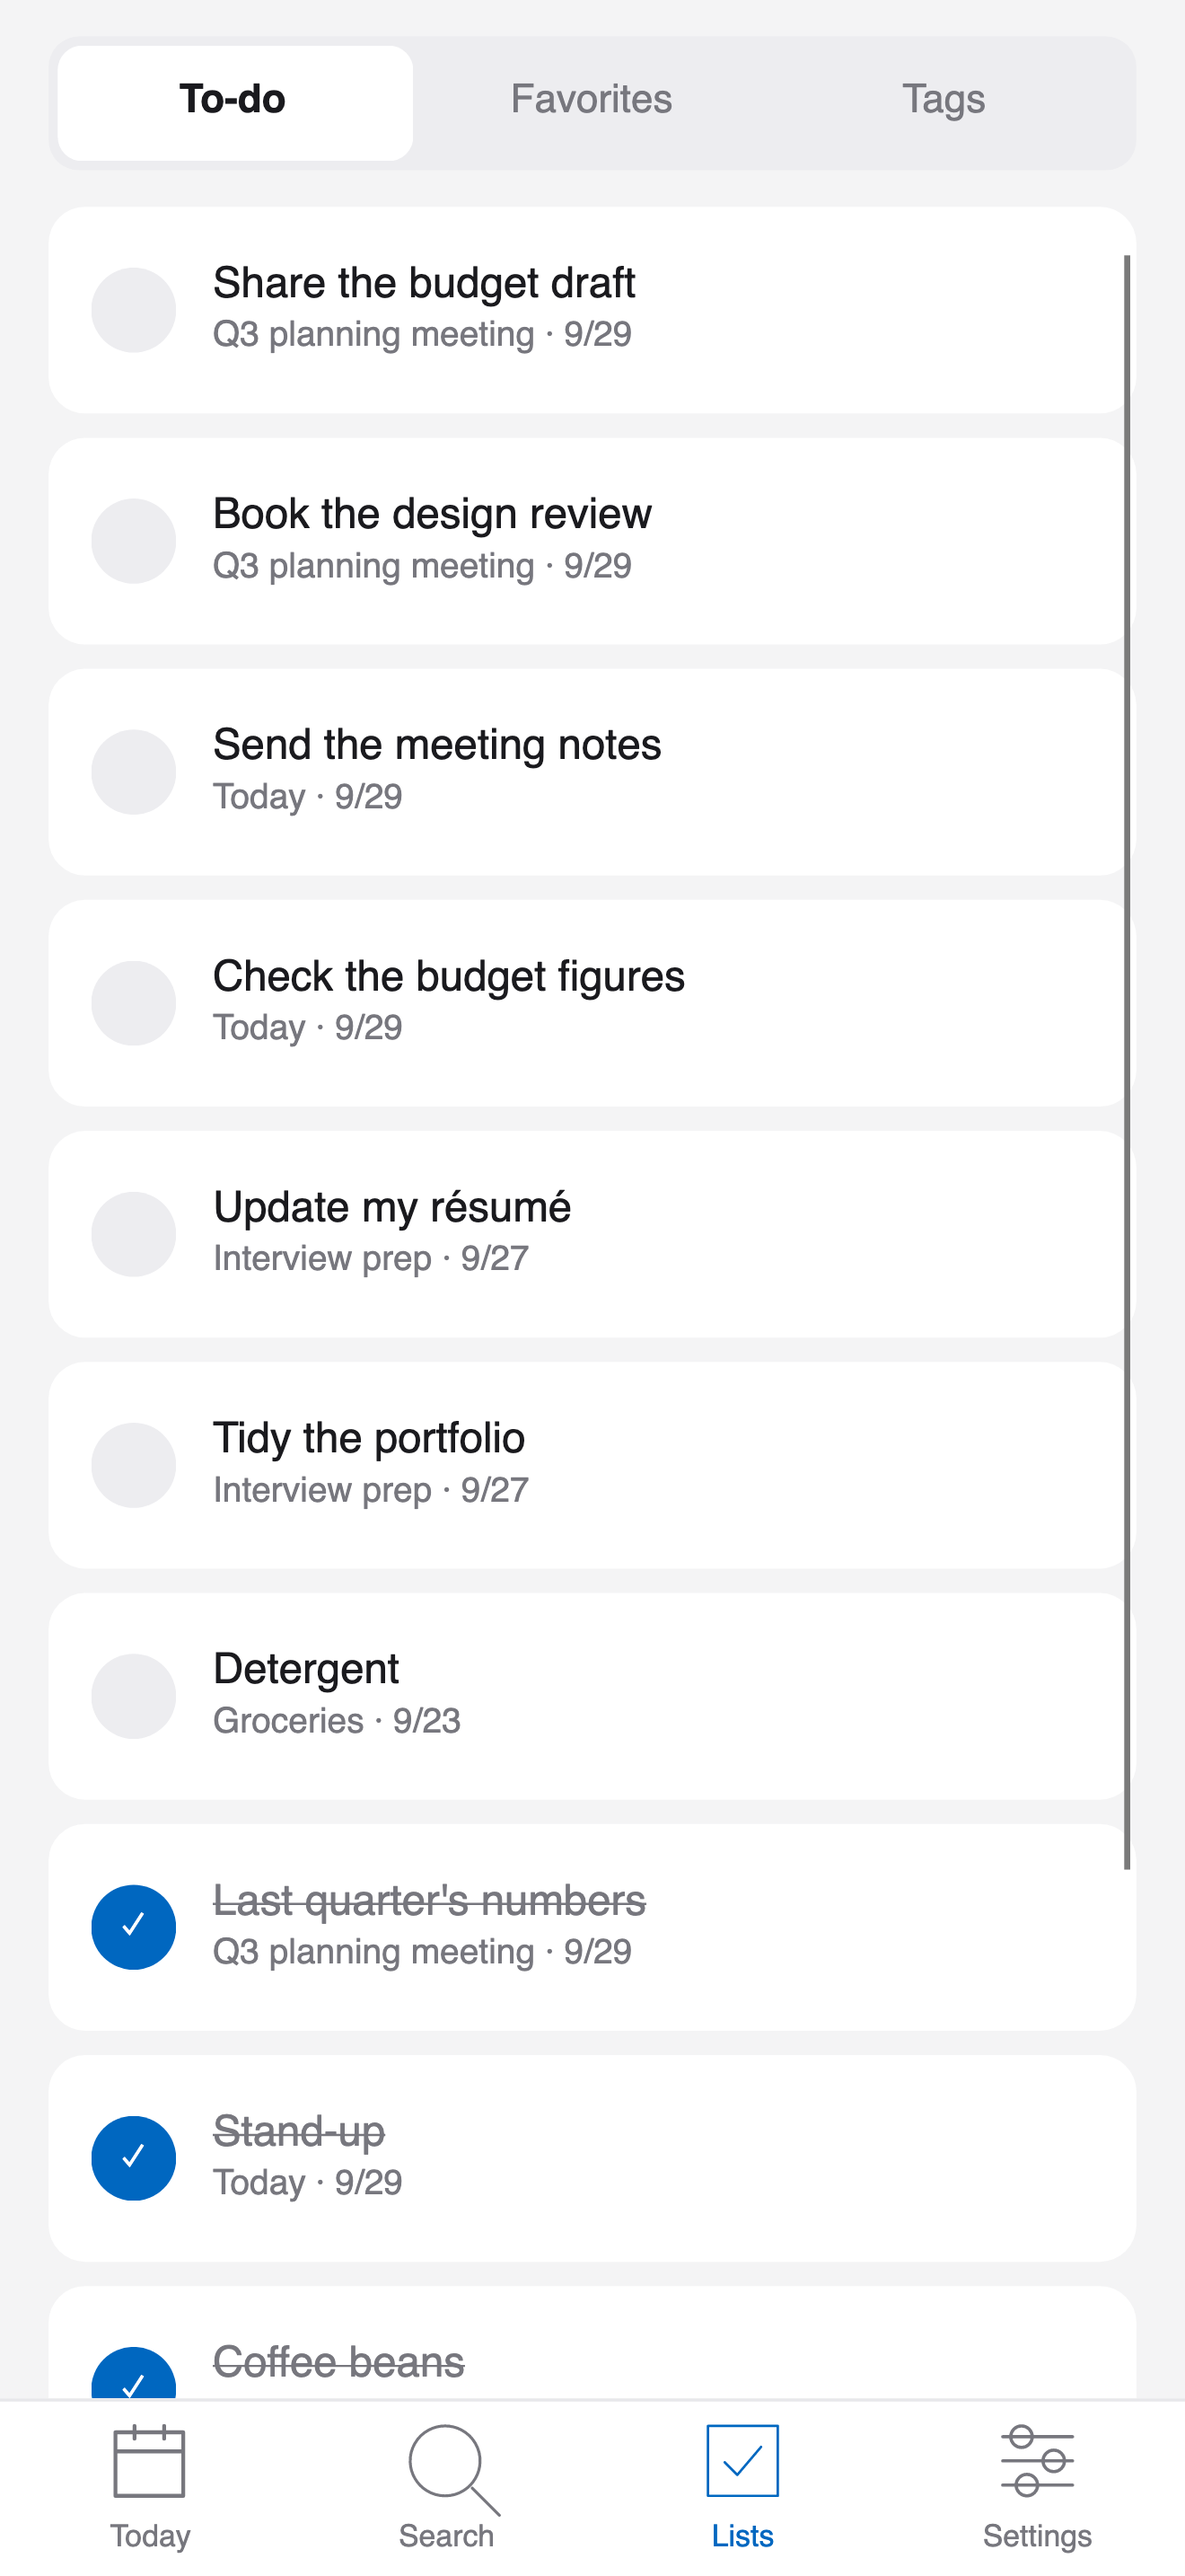
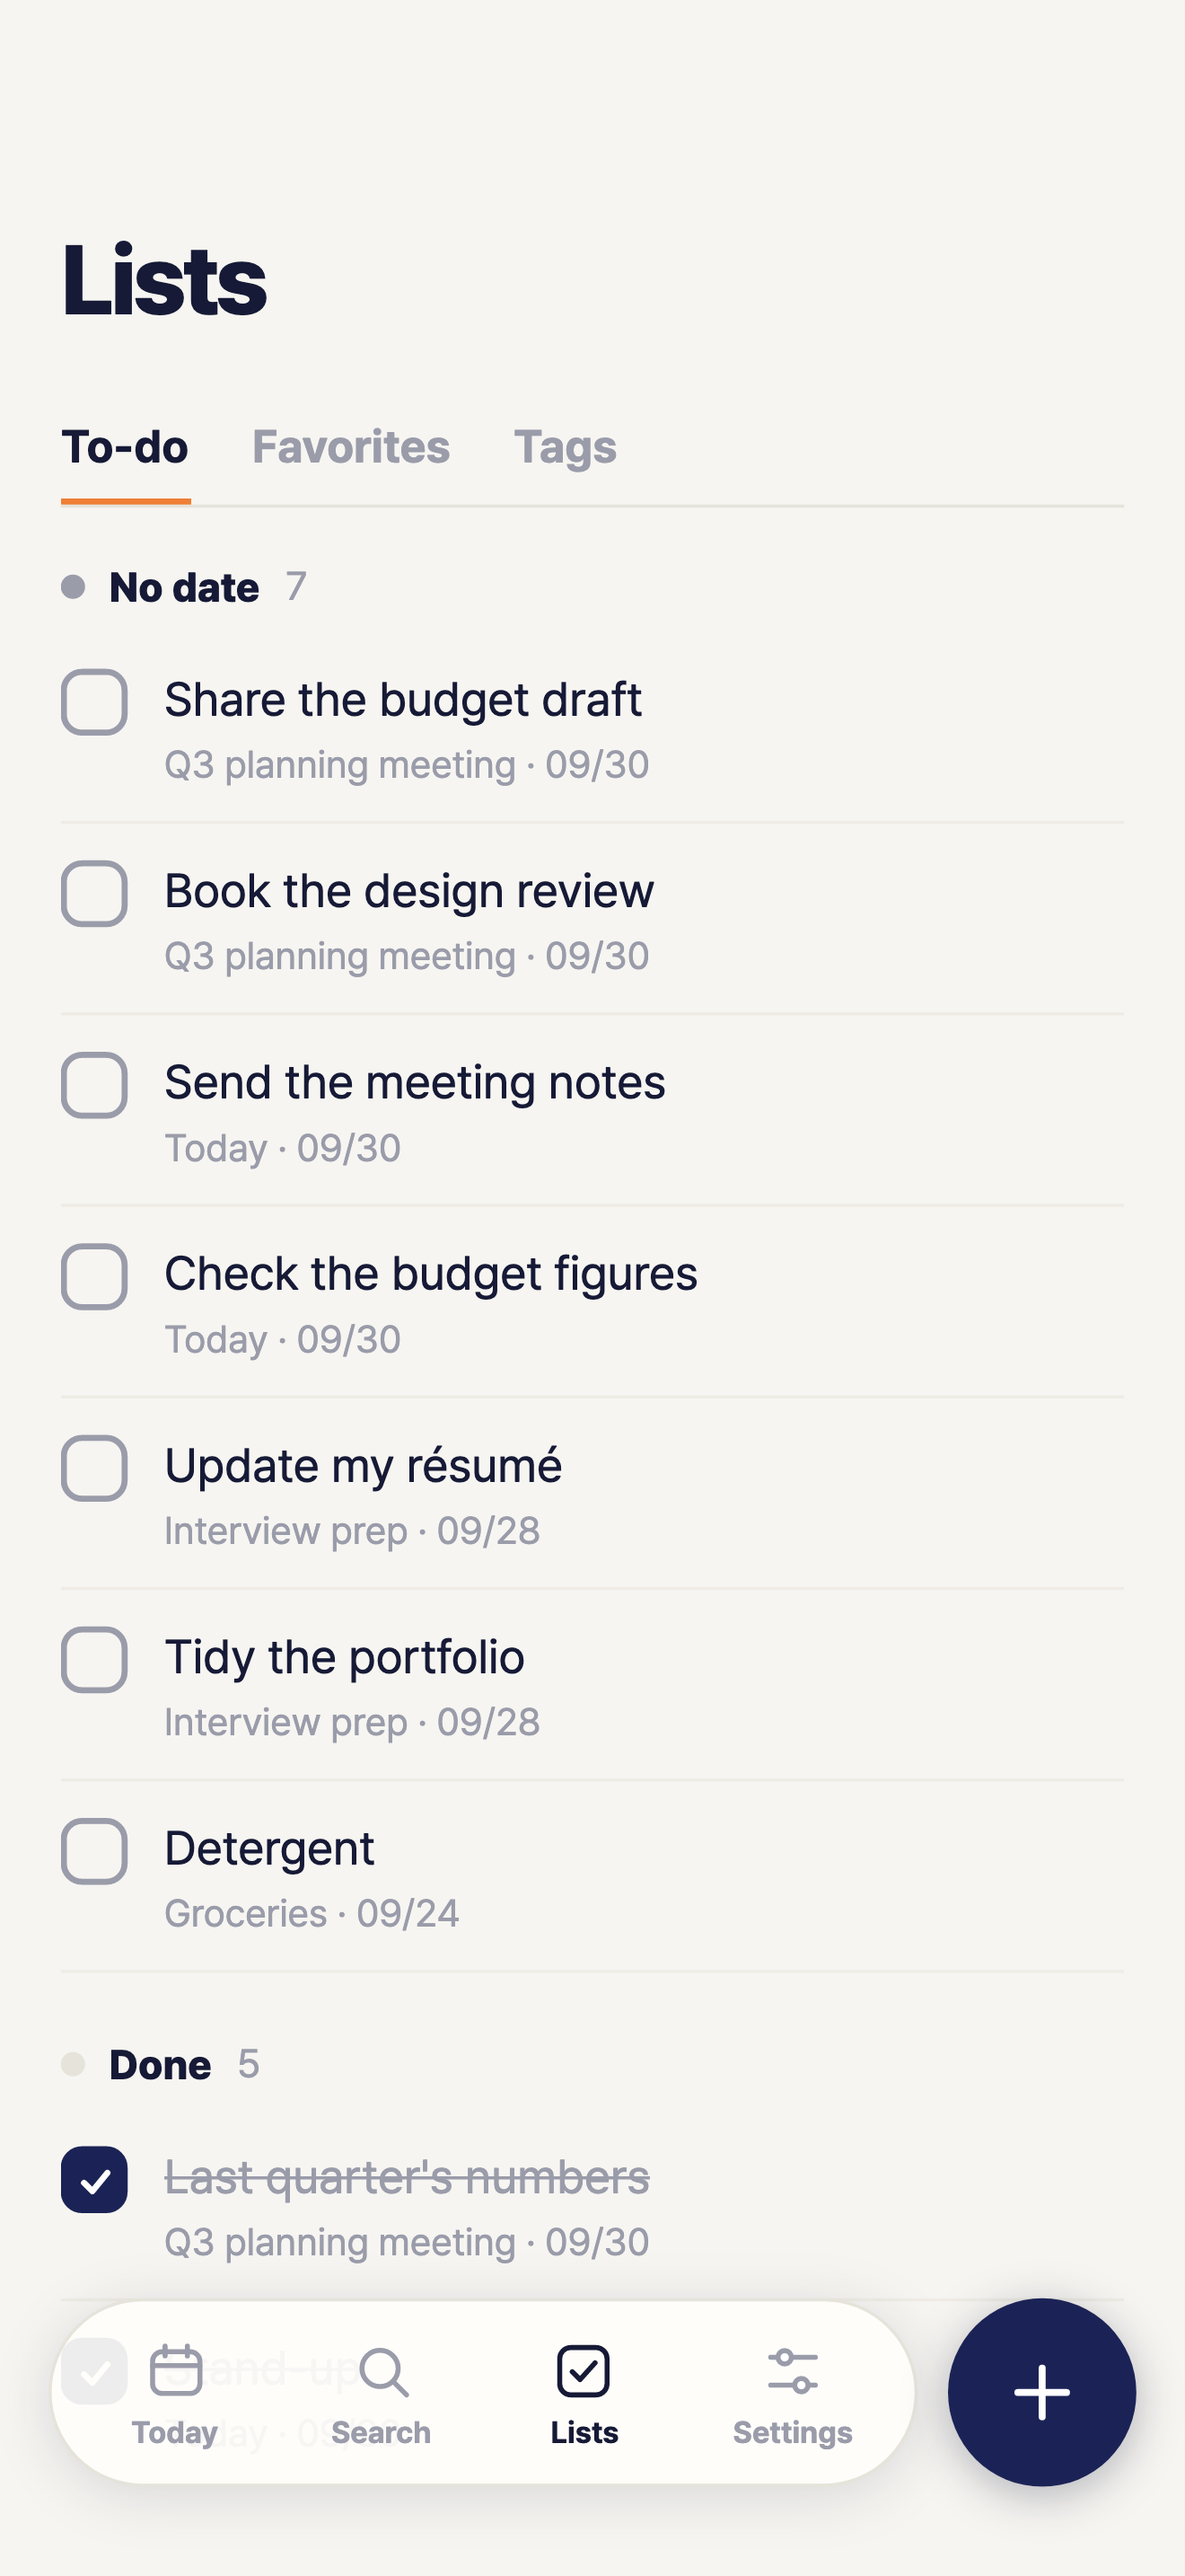
Store images in the design-B look, Play tablet sizes, and build 5
The listing images are rendered again from the redesigned screens, laid
out against a real phone's status bar and home indicator so the floating
tab bar sits where it does on a device. Google Play also gets 7- and
10-inch tablet sets, which its listing marks required.

Both phone builds go to 5 (the iOS number lives in Info.plist too).

diff --git a/tests/Daynote.Mobile.Tests/StoreScreenshotTests.cs b/tests/Daynote.Mobile.Tests/StoreScreenshotTests.cs
@@ -38,10 +38,16 @@ public sealed class StoreScreenshotTests
         Path.Combine(AppContext.BaseDirectory, "..", "..", "..", "..", "..", "docs", "brand");
 
     /// <summary>iPhone 6.9" display, the size App Store Connect requires.</summary>
-    private static readonly Target AppStore = new("app-store", 1320, 2868, 390);
+    private static readonly Target AppStore = new("app-store", 1320, 2868, 390, new Thickness(0, 59, 0, 34));
 
     /// <summary>Google Play phone: 9:18, the tallest ratio Play accepts (its limit is 2:1).</summary>
-    private static readonly Target GooglePlay = new("google-play", 1080, 2160, 360);
+    private static readonly Target GooglePlay = new("google-play", 1080, 2160, 360, new Thickness(0, 24, 0, 24));
+
+    /// <summary>Google Play 7-inch tablet, portrait: 600 points wide at 2x.</summary>
+    private static readonly Target PlayTablet7 = new("google-play", 1200, 1920, 600, new Thickness(0, 24, 0, 24), "tablet7");
+
+    /// <summary>Google Play 10-inch tablet, portrait: 800 points wide at 2x.</summary>
+    private static readonly Target PlayTablet10 = new("google-play", 1600, 2560, 800, new Thickness(0, 24, 0, 24), "tablet10");
 
     [TestMethod]
     [DataRow("ko")]
@@ -52,6 +58,15 @@ public sealed class StoreScreenshotTests
     [DataRow("ko")]
     [DataRow("en")]
     public void Google_Play_images(string language) => Render(GooglePlay, language);
+
+    [TestMethod]
+    [DataRow("ko")]
+    [DataRow("en")]
+    public void Google_Play_tablet_images(string language)
+    {
+        Render(PlayTablet7, language);
+        Render(PlayTablet10, language);
+    }
 
     private static void Render(Target target, string languageCode)
     {
@@ -83,6 +98,10 @@ public sealed class StoreScreenshotTests
                     DataContext = shell,
                     Width = target.LogicalWidth,
                     Height = target.Height / scale,
+
+                    // The status bar and the home indicator a real screen has, so the tab bar sits
+                    // where it does on a device rather than on the image's bottom edge.
+                    PreviewSafeArea = target.SafeArea,
                 };
                 var host = new Window
                 {
@@ -99,7 +118,9 @@ public sealed class StoreScreenshotTests
                 Wait(shell.InitializeAsync());
                 Seed(shell, language);
 
-                string prefix = $"daynote-{target.Folder}-{languageCode}";
+                string prefix = target.Variant is { } variant
+                    ? $"daynote-{target.Folder}-{variant}-{languageCode}"
+                    : $"daynote-{target.Folder}-{languageCode}";
 
                 // 1: the day, which is what opening the app shows.
                 shell.GoToPageCommand.Execute(MobilePage.Day);
@@ -232,7 +253,7 @@ public sealed class StoreScreenshotTests
         }
     }
 
-    private sealed record Target(string Folder, int Width, int Height, double LogicalWidth);
+    private sealed record Target(string Folder, int Width, int Height, double LogicalWidth, Thickness SafeArea, string? Variant = null);
 
     private sealed record ThemeVariantHolder(Avalonia.Styling.ThemeVariant? Value);
 
